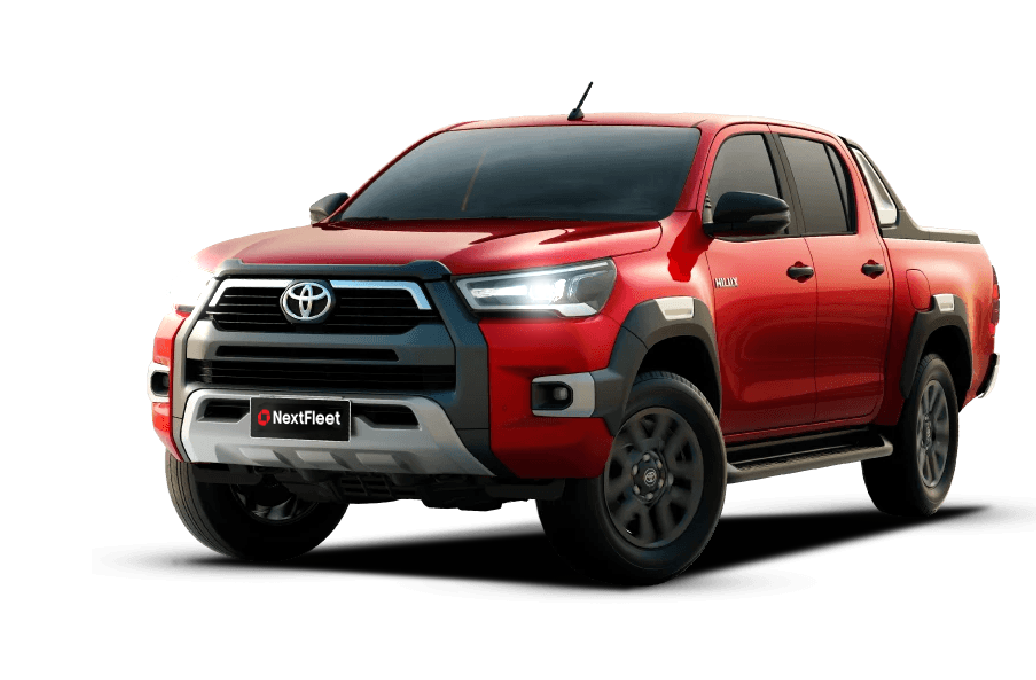
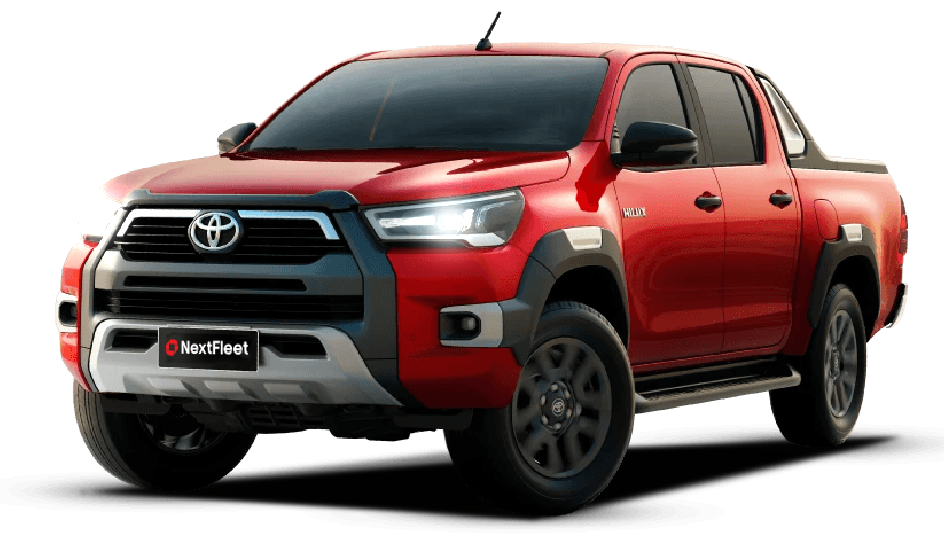
update homepage

diff --git a/components/services.js b/components/services.js
@@ -1,36 +1,42 @@
 export function loadServices() {
   const services = [
     {
+      img: 'images/placeholder-1.png',
       title: 'Corporate Fleet Management Solutions',
       description:
         'We provide end-to-end fleet management solutions tailored to your business needs, ensuring efficiency and cost-effectiveness.',
       accentColor: `accent-color-1`,
     },
     {
+      img: 'images/placeholder-2.png',
       title: 'Vehicle Fleet Leasing',
       description:
         'Our flexible leasing options help you expand your fleet without heavy upfront costs, keeping your business moving forward.',
       accentColor: `accent-color-2`,
     },
     {
+      img: 'images/placeholder-3.png',
       title: 'Fleet Management Consulting Services',
       description:
         'Our expert consultants provide data-driven insights and strategies to optimize your fleet operations and reduce costs.',
       accentColor: `accent-color-3`,
     },
     {
+      img: 'images/placeholder-4.png',
       title: 'Fleet Tracking and Telematics',
       description:
         'Utilize cutting-edge GPS tracking and telematics solutions to monitor vehicle usage, improve safety, and enhance productivity.',
       accentColor: `accent-color-4`,
     },
     {
+      img: 'images/placeholder-5.png',
       title: 'Maintenance and Repair Management',
       description:
         'We handle scheduled maintenance and repair services to minimize downtime and extend the lifespan of your fleet.',
       accentColor: `accent-color-5`,
     },
     {
+      img: 'images/placeholder-5.png',
       title: 'Fuel Management Solutions',
       description:
         'Reduce fuel expenses with our advanced monitoring systems that track fuel usage, prevent fraud, and improve efficiency.',
@@ -42,22 +48,25 @@ export function loadServices() {
       <div class="bg-black">
         <div class="text-white py-5 position-relative z-2">
             <div class="container">
-                <div class="text-center">
-                    <h2>Our Services</h2>
+                <div class="text-center mb-4">
+                    <h2 class="text-uppercase">Our Services</h2>
                 </div>
-                <div class="row align-items-start row-cols-1 row-cols-md-3">
+                <div class="row align-items-start row-cols-1 row-cols-md-3 g-4">
                     ${services
                       .map(
                         (service) => `
+                        <div>
                         <div class="cards">
                           <div class="services-accent-color" style="background-color: var(--${service.accentColor});"></div>
-                            <div class="p-3">
+                          <img src="${service.img}" alt="placeholder" class="img-placeholder">
+                            <div class="pt-0 p-4">
                               <h3>${service.title}</h3>
                               <p class="line-clamp-3 subtext">
                                   ${service.description}
                               </p>
                               <a href="" class="text-uppercase secondary-btn" style="color: var(--${service.accentColor})">Explore Solutions</a>
                             </div>
+                        </div>
                         </div>
                     `
                       )

diff --git a/components/banner.js b/components/banner.js
@@ -1,12 +1,12 @@
 export function loadBanner() {
   document.getElementById('banner').innerHTML = `
-    <div class="banner-section position-relative w-100 bg-black">
-        <div class="background-overlay position-absolute top-0 left-0 w-100 z-1">
-            <img src="images/building-bg.jpg" alt="" class="m-auto d-flex">
+    <div class="banner-section">
+        <div class="background-overlay">
+            <img src="images/building-bg.jpg">
         </div>
         
-      <div class="container position-relative z-2">
-        <div class="banner-item border border-4 border-danger text-white">
+      <div class="container position-relative z-2 pb-5">
+        <div class="banner-item">
             <div class="position-relative h-100">
                 <div class="w-50">
                     <h1>FLEET MANAGEMENT SERVICES SIMPLIFIED</h1>
@@ -24,6 +24,12 @@ export function loadBanner() {
                         <li><img src="images/logos-2.png" alt="Logo"></li>
                         <li><img src="images/logos-3.png" alt="Logo"></li>
                     </ul>
+                </div>
+                <div class="chevron">
+                    <img src="images/chevron.png" alt="chevron">
+                </div>
+                <div class="the-car">
+                    <img src="images/red-car.png" alt="">
                 </div>
             </div>
         </div>

diff --git a/css/style.css b/css/style.css
@@ -164,14 +164,28 @@ footer {
 .banner-section {
   background-repeat: no-repeat;
   background-size: cover;
+  position: relative;
+  width: 100%;
+  background-color: #000;
 }
 .banner-section .banner-item {
   height: 610px;
   padding: 70px;
   position: relative;
+  color: #fff;
+  border: 5px solid var(--primary-color);
+}
+.banner-section .background-overlay {
+  position: absolute;
+  top: 0;
+  left: 0;
+  width: 100%;
+  z-index: 1;
 }
 .banner-section .background-overlay img {
   width: 1600px;
+  margin: auto;
+  display: flex;
 }
 .banner-section .partner-logos {
   position: absolute;
@@ -190,6 +204,29 @@ footer {
 }
 .banner-section .partner-logos img {
   height: 59px;
+}
+.banner-section .the-car {
+  position: absolute;
+  bottom: -180px;
+  right: -300px;
+}
+.banner-section .chevron {
+  position: absolute;
+  margin: auto;
+  left: 0;
+  right: -500px;
+  top: 0;
+  bottom: 0;
+  width: 544px;
+}
+.banner-section .chevron img {
+  width: 100%;
+  height: auto;
+}
+
+.services .img-placeholder {
+  height: 218px;
+  width: auto;
 }
 
 /*# sourceMappingURL=style.css.map */

diff --git a/scss/style.scss b/scss/style.scss
@@ -44,14 +44,26 @@ footer {
 .banner-section {
   background-repeat: no-repeat;
   background-size: cover;
+  position: relative;
+  width: 100%;
+  background-color: #000;
   .banner-item {
     height: 610px;
     padding: 70px;
     position: relative;
+    color: #fff;
+    border: 5px solid var(--primary-color);
   }
   .background-overlay {
+    position: absolute;
+    top: 0;
+    left: 0;
+    width: 100%;
+    z-index: 1;
     img {
       width: 1600px;
+      margin: auto;
+      display: flex;
     }
   }
   .partner-logos {
@@ -73,5 +85,30 @@ footer {
     img {
       height: 59px;
     }
+  }
+  .the-car {
+    position: absolute;
+    bottom: -180px;
+    right: -300px;
+  }
+  .chevron {
+    position: absolute;
+    margin: auto;
+    left: 0;
+    right: -500px;
+    top: 0;
+    bottom: 0;
+    width: 544px;
+    img {
+      width: 100%;
+      height: auto;
+    }
+  }
+}
+
+.services {
+  .img-placeholder {
+    height: 218px;
+    width: auto;
   }
 }
